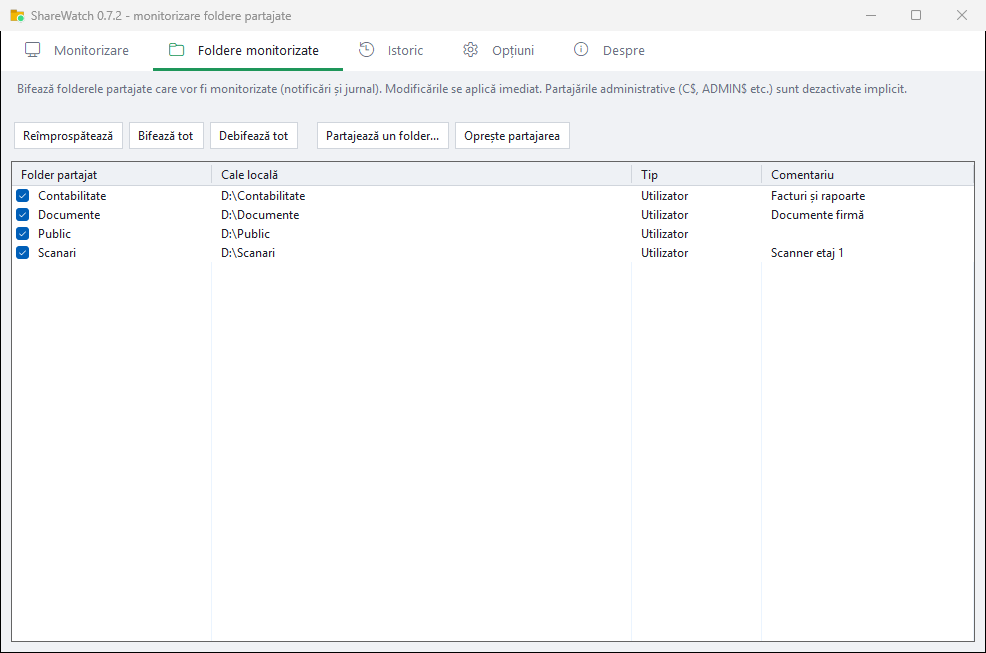
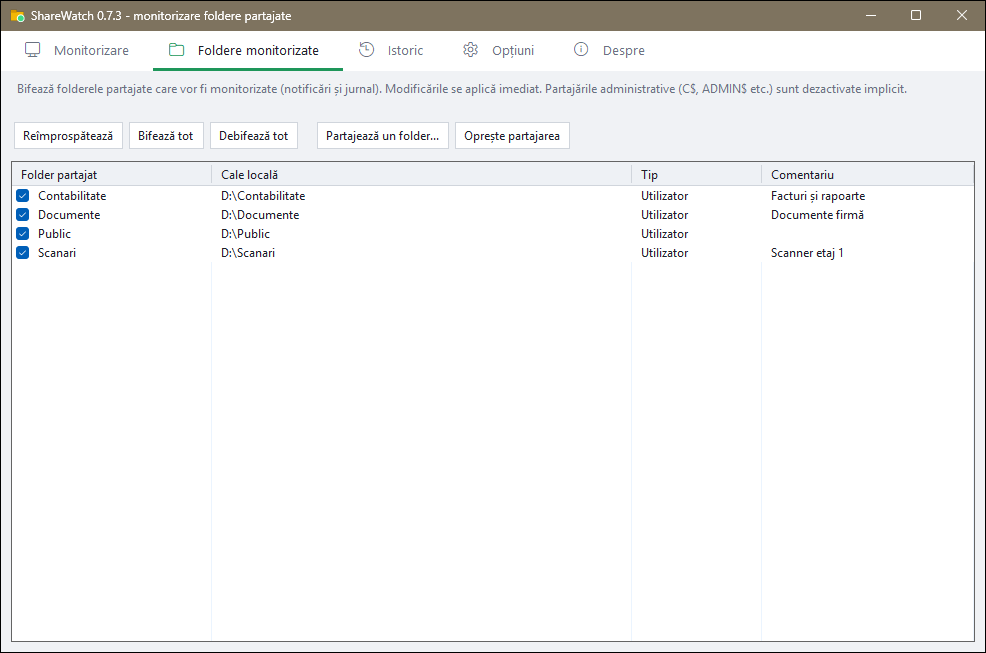
0.7.3: no URL in the exe version info (triggered a Microsoft Defender ML false positive)

Changed region(s): [[0.0, 0.0, 1.0, 0.0613]]

diff --git a/source/ShareWatch.cs b/source/ShareWatch.cs
@@ -21,16 +21,17 @@ using System.Windows.Forms;
 [assembly: AssemblyTitle("ShareWatch")]
 [assembly: AssemblyDescription("Monitorizare accesari foldere partajate")]
 [assembly: AssemblyProduct("ShareWatch")]
-[assembly: AssemblyCompany("https://github.com/ms74ro/ShareWatch")]
-[assembly: AssemblyCopyright("by ms74ro & Claude - https://github.com/ms74ro/ShareWatch")]
-[assembly: AssemblyVersion("0.7.2.0")]
-[assembly: AssemblyFileVersion("0.7.2.0")]
+// Fara URL in informatiile de versiune: un link aici (Company/Copyright) a declansat detectia
+// Microsoft Defender Trojan:Win32/Wacatac.C!ml pe VirusTotal (0.7.2). Linkul e in Despre.
+[assembly: AssemblyCopyright("by ms74ro & Claude")]
+[assembly: AssemblyVersion("0.7.3.0")]
+[assembly: AssemblyFileVersion("0.7.3.0")]
 
 namespace ShareWatch
 {
     static class AppInfo
     {
-        public const string Version = "0.7.2";
+        public const string Version = "0.7.3";
         public const string RepoUrl = "https://github.com/ms74ro/ShareWatch";
         // Istoricul versiunilor e in CHANGELOG.md (nu mai e inclus in exe).
         // Cand proiectul ajunge pe GitHub, pune aici adresa fisierului; daca e completata, linkul din Despre o foloseste.

diff --git a/CHANGELOG.md b/CHANGELOG.md
@@ -2,6 +2,9 @@
 
 All notable changes to ShareWatch are listed here, newest first.
 
+## 0.7.3
+- The GitHub address is no longer in the executable's Properties → Details. With it there, Microsoft Defender flagged the file as `Trojan:Win32/Wacatac.C!ml` (a false positive from its machine-learning model). The link stays in About.
+
 ## 0.7.2
 - About: link to the GitHub page, with the GitHub icon, next to the version history link (now with an icon too).
 - Options: the Theme and Language boxes are aligned in every language.
